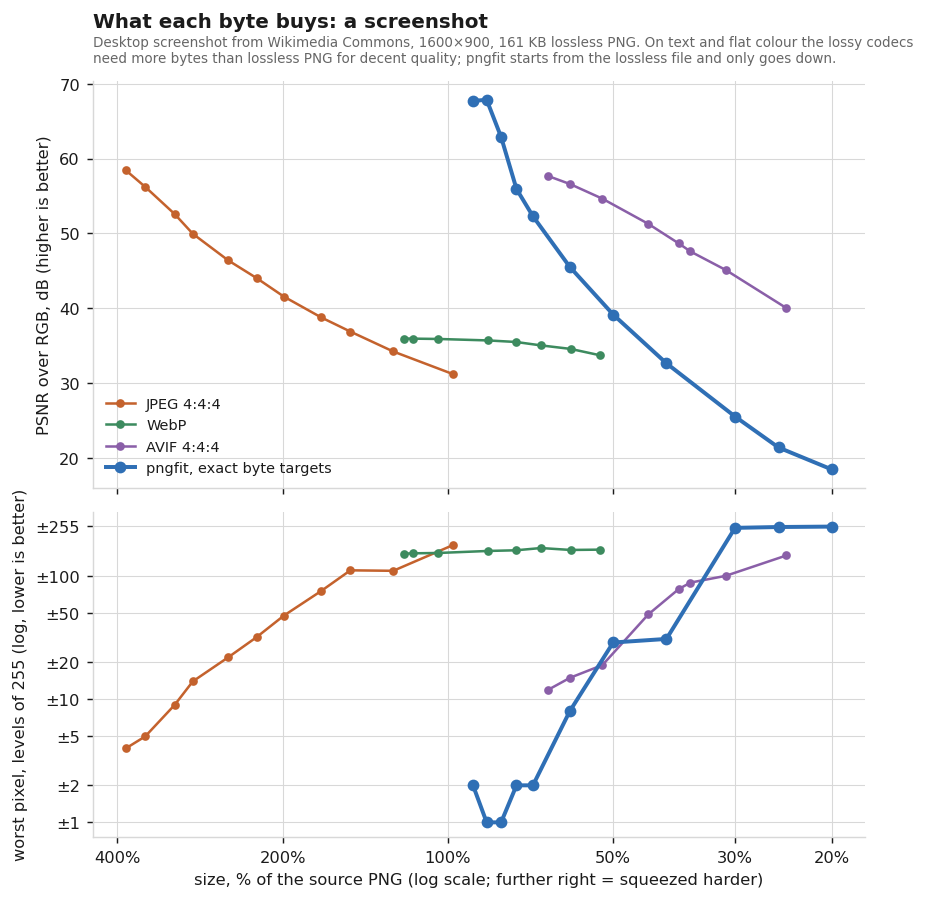
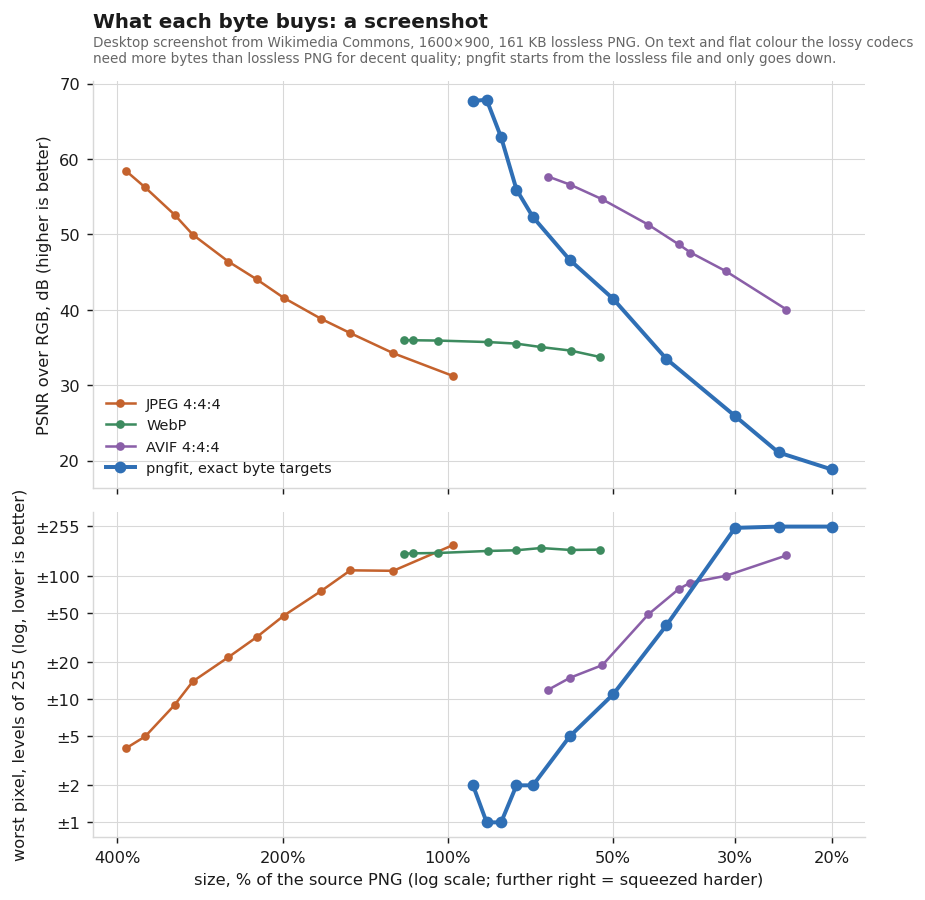
A dead zone on coarse steps; a re-aim that cannot stall
Steps of 9 and up now round a residual towards the prediction (offset 0.4 q,
then 0.35 q) instead of to the nearest multiple, as video encoders do. Measured
at equal size on six images (Kodak, USC-SIPI, AnitaDataset, a screenshot): about
+1 dB on average at 20-35 % of the lossless size, up to +3.9 dB on a smooth
photograph, nothing changed at 50 % and above. Steps under 9, everything under
--max-error, steps of the extended ladder and 16-bit images round as before;
--nearest restores 1.0's rounding.

When the final level priced an allocation over the target, the hybrid search
moved its budget by the size of the miss, too little to change a sparse
allocation; eight unchanged tries later it fell back to the most lossy point
and started over with thinner strips. The correction now doubles until the
allocation moves, and the fallback takes the best mix priced at the final
level. Kodak 23 at 90 %: 55 s -> 16 s, 56.21 -> 56.25 dB. On 51 other runs the
output is unchanged.

The README says what the dead zone does and shows the re-measured points; the
README opens with a few words on controlled loss.

diff --git a/pngfit.c b/pngfit.c
@@ -1120,6 +1120,7 @@ typedef struct {
     int free_alpha;  /* --alpha: colour under alpha 0 costs nothing and counts for nothing */
     double sw;
     uint8_t *qtab; /* L x bpp: step per rung per byte of a pixel */
+    uint8_t *otab; /* L x bpp: its rounding offset (see dead_zone), NEAREST for plain rounding */
     uint8_t *zeros;
     Entry *bk[NB];
     pthread_mutex_t mu;
@@ -1150,6 +1151,19 @@ static inline int predict(int f, int a, int b, int c)
     }
 }
 
+/* Rounding offset of step q: a residual r becomes floor((|r| + offset) / q) steps. Fine steps round
+ * to the nearest multiple (offset (q - 1) / 2, written NEAREST), which keeps the error within
+ * floor(q/2). Coarse steps lean towards the prediction, a dead zone like a video encoder's: at equal
+ * size, about +1 dB at 20-35 % of a photograph's size, nothing near lossless. Steps above 63 (the
+ * extended ladder) stay nearest, as does everything under --max-error or in 16-bit images. */
+#define NEAREST 0xFF
+static uint8_t dead_zone(int q)
+{
+    if (q < 9 || q > 63)
+        return NEAREST;
+    return q < 11 ? 3 : (uint8_t)(7 * q / 20); /* 0.4 q, then 0.35 q */
+}
+
 /* Quantize one row with filter f, predicting from `up` and the row's own
  * already-rounded bytes. Out-of-range rounding keeps the byte exact, so the error
  * bound floor(q/2) always holds. Returns the heuristic cost log2(1+|residual|). */
@@ -1159,7 +1173,7 @@ static double quant_row(const Fit *F, int W, const uint8_t *src, const uint8_t *
     const int bpp = F->bpp, ncol = (F->C - 1) * F->bps; /* with alpha, colour bytes come first */
     double cost = 0;
     for (int x = 0; x < W; x++) {
-        const uint8_t *qt = F->qtab + (lossless ? 0 : rung[x]) * bpp;
+        const uint8_t *qt = F->qtab + (lossless ? 0 : rung[x]) * bpp, *ot = F->otab + (lossless ? 0 : rung[x]) * bpp;
         int inv = 0; /* fully transparent, and allowed to forget its colour */
         if (F->free_alpha && !lossless) {
             const uint8_t *al = src + (size_t)x * bpp + ncol;
@@ -1173,7 +1187,13 @@ static double quant_row(const Fit *F, int W, const uint8_t *src, const uint8_t *
                 if (b < ncol)
                     val = p; /* colour nobody sees: the bare prediction, a zero residual */
             } else if (q > 1) {
-                int rq = q * floordiv(2 * (v - p) + q, 2 * q);
+                int rq;
+                if (ot[b] == NEAREST)
+                    rq = q * floordiv(2 * (v - p) + q, 2 * q);
+                else { /* a coarse step: rounded towards the prediction */
+                    int r = v - p, m = (abs(r) + ot[b]) / q;
+                    rq = r < 0 ? -m * q : m * q;
+                }
                 if (p + rq >= 0 && p + rq <= 255)
                     val = p + rq;
                 else if (F->clamp_above && q > F->clamp_above) {
@@ -1624,6 +1644,7 @@ typedef struct {
     int strip_set, explore_set; /* given on the command line: no automatic choice */
     int no_thin;                /* no thin landing strips (diagnostics) */
     double row_switch, mask;
+    int nearest; /* every step rounds to the nearest multiple, as in 1.0 (diagnostics) */
     int ladder_kind; /* 0 odd, 1 all, 2 custom */
     int ladder[256], nladder;
 } Opts;
@@ -1683,6 +1704,11 @@ static void build_ladder(const Opts *o, const Png *g, Fit *F, int extended)
                 F->qtab[r * g->bpp + 2 * c + 1] = lossy ? ql : 1;
             }
         }
+    /* the dead zone needs no error cap to keep, and 8-bit samples */
+    int dz = o->max_error < 0 && !o->nearest && g->bps == 1;
+    F->otab = amalloc((size_t)F->L * g->bpp);
+    for (int i = 0; i < F->L * g->bpp; i++)
+        F->otab[i] = dz ? dead_zone(F->qtab[i]) : NEAREST;
 }
 
 static void describe_rung(const Fit *F, int r, char *s, size_t n)
@@ -1698,7 +1724,8 @@ static int rung_err(const Fit *F, int r)
 {
     int m = 0;
     for (int c = 0; c < F->C; c++) {
-        int e = F->bps == 1 ? F->qtab[r * F->bpp + c] / 2
+        int q = F->qtab[r * F->bpp + c], o = F->otab[r * F->bpp + c];
+        int e = F->bps == 1 ? (o == NEAREST ? q / 2 : (o > q - 1 - o ? o : q - 1 - o))
                             : F->qtab[r * F->bpp + 2 * c] / 2 * 256 + F->qtab[r * F->bpp + 2 * c + 1] / 2;
         if (e > m)
             m = e;
@@ -2393,7 +2420,7 @@ static int fit_once(const Opts *o, const Png *g, const uint8_t *head, size_t hea
             /* price the chosen allocation at the final level; the levels differ by a few
              * per cent and not evenly across strips, so re-aim the exploration budget by
              * what was measured until the final total sits just under the target */
-            int64_t best_ok = -1, *Pbest = amalloc(K * sizeof(int64_t));
+            int64_t best_ok = -1, *Pbest = amalloc(K * sizeof(int64_t)), *Plast = amalloc(K * sizeof(int64_t));
             for (int it = 0; it < 8; it++) {
                 F->cur = 1;
                 n = 0;
@@ -2413,17 +2440,31 @@ static int fit_once(const Opts *o, const Png *g, const uint8_t *head, size_t hea
                 }
                 if (t1 <= T && T - t1 <= (T / 500 > 4096 ? T / 500 : 4096))
                     break;
-                Tx += (int64_t)((double)(T - t1) * tx / t1);
+                /* the strips' curves are sparse, so a correction as small as the miss can leave the
+                 * allocation as it was: double it until the allocation moves (no compression here,
+                 * only a choice among points already priced) */
+                memcpy(Plast, Pc, K * sizeof(int64_t));
+                int64_t step = (int64_t)((double)(T - t1) * tx / t1);
+                if (step == 0)
+                    step = T > t1 ? 1 : -1;
                 F->cur = 0;
-                best_under(F, Tx, Pc);
+                for (int grow = 0; grow < 24; grow++, step *= 2) {
+                    Tx += step;
+                    best_under(F, Tx, Pc);
+                    if (memcmp(Pc, Plast, K * sizeof(int64_t)))
+                        break;
+                }
             }
             F->cur = 1;
-            if (best_ok < 0) { /* never under: fall back to the most lossy point every strip has priced */
-                for (int k = 0; k < K; k++)
-                    Pbest[k] = F->maxP[k];
-                best_ok = 0;
-                for (int k = 0; k < K; k++)
-                    best_ok += cached(F, k, F->maxP[k], 0).R;
+            if (best_ok < 0) { /* never under: the best mix of the points priced at the final level */
+                best_ok = best_under(F, T, Pbest);
+                if (best_ok > T) { /* or, failing that, the most lossy point of every strip */
+                    for (int k = 0; k < K; k++)
+                        Pbest[k] = F->maxP[k];
+                    best_ok = 0;
+                    for (int k = 0; k < K; k++)
+                        best_ok += cached(F, k, F->maxP[k], 0).R;
+                }
             }
             memcpy(Pc, Pbest, K * sizeof(int64_t));
             tot = best_ok;
@@ -3041,6 +3082,8 @@ static void usage(FILE *f)
           "      --strip-rows N    rows per independent strip (default: 128 for photographs,\n"
           "                        64 for screenshots and other flat, synthetic images)\n"
           "      --no-thin-strips  no thin landing strips at the bottom (slower exact landing)\n"
+          "      --nearest         round every step to the nearest multiple, as pngfit 1.0 did:\n"
+          "                        no dead zone on the coarse steps\n"
           "      --rounds N        rate-distortion refinement rounds (default 4)\n"
           "  -j, --jobs N          worker threads in total (default: all cores)\n"
           "  -P, --parallel N      batch mode: files encoded at once (default: as many as\n"
@@ -3260,7 +3303,7 @@ static int cli_main(int argc, char **argv)
     o.jobs = ncpu();
     const char *outdir = NULL, *suffix = "";
     enum { O_SUFFIX = 256, O_LALPHA, O_FILTER, O_RSW, O_LADDER, O_MASK, O_LEVEL, O_STRIP, O_ROUNDS, O_JSON,
-           O_NOREDUCE, O_ALPHA, O_FAST, O_EXPLORE, O_NOTHIN, O_PLINES };
+           O_NOREDUCE, O_ALPHA, O_FAST, O_EXPLORE, O_NOTHIN, O_PLINES, O_NEAREST };
     o.max_error = -1;
     o.explore_level = 10;
     static const struct option lo[] = {{"size", 1, 0, 's'},          {"outdir", 1, 0, 'o'},
@@ -3275,7 +3318,7 @@ static int cli_main(int argc, char **argv)
                                        {"no-reduce", 0, 0, O_NOREDUCE}, {"alpha", 0, 0, O_ALPHA},
                                        {"max-error", 1, 0, 'e'},        {"fast", 0, 0, O_FAST},
                                        {"explore-level", 1, 0, O_EXPLORE},
-                                       {"no-thin-strips", 0, 0, O_NOTHIN},
+                                       {"no-thin-strips", 0, 0, O_NOTHIN}, {"nearest", 0, 0, O_NEAREST},
                                        {"progress-lines", 0, 0, O_PLINES},
                                        {"version", 0, 0, 'V'},       {"help", 0, 0, 'h'},
                                        {0, 0, 0, 0}};
@@ -3336,6 +3379,7 @@ static int cli_main(int argc, char **argv)
             }
             break;
         case O_MASK: o.mask = atof(optarg); break;
+        case O_NEAREST: o.nearest = 1; break;
         case O_LEVEL: o.level = atoi(optarg); break;
         case O_STRIP: o.strip = atoi(optarg); o.strip_set = 1; break;
         case O_ROUNDS: o.rounds = atoi(optarg); break;

diff --git a/README.md b/README.md
@@ -4,14 +4,19 @@
 
 **Make a truecolor PNG, or an animated one, exactly N bytes, with the least visible loss.**
 
+*Once our limits were floppy disks and modems; now they are upload forms. A picture over the limit
+still gets published, squeezed into a JPEG: blocks on an 8×8 grid, colour bleeding around every
+letter. pngfit is for the age of controlled loss: every byte the limit allows, and not one bit of
+loss beyond what it demands.*
+
 Try it in the browser at **[pngfit.redmoth.moe](https://pngfit.redmoth.moe/)**: it runs on your own
 machine and the image is never uploaded.
 
-Upload forms have hard limits: Bandcamp takes a cover up to 10 MiB (10 485 760 bytes), and it
-serves that file to listeners as uploaded. When a lossless PNG is 12 MB, the usual choices are a
-palette (pngquant), a downscale, or JPEG. pngfit takes another route: it keeps the full resolution and
-full truecolor, gives up the smallest possible amount of precision where the eye cannot see it,
-and writes a valid PNG of **exactly** the size you ask for: not "about", not "under", the very byte.
+Bandcamp, for one, takes a cover of up to 10 MiB (10 485 760 bytes) and serves that very file to
+listeners. When a lossless PNG is 12 MB, the usual choices are a palette (pngquant), a downscale,
+or JPEG. pngfit takes another route: it keeps the full resolution and full truecolor, gives up the
+smallest possible amount of precision where the eye cannot see it, and writes a valid PNG of
+**exactly** the size you ask for: not "about", not "under", the very byte.
 
 ```
 $ pngfit cover.png cover_bandcamp.png -s 10MiB -e 1
@@ -43,7 +48,7 @@ Near lossless, pngfit is the better tool. At Bandcamp's 10 MiB (86.5 % of the so
 no pixel by more than ±1 at 54.9 dB; JPEG cannot even get there (quality 100 is 69 % of the size
 and still moves a pixel by 5 levels), and WebP and AVIF never get below ±27 and ±9. Below about
 65 % the picture flips for the average error: transform codecs suit photographs better than
-prediction does, and at 20 % of the size JPEG and AVIF are 5–8 dB ahead. pngfit's worst pixel stays the
+prediction does, and at 20 % of the size JPEG and AVIF are 4–7 dB ahead. pngfit's worst pixel stays the
 smallest at every size, though: ±7 at 20 %, where JPEG and AVIF are at ±26 and ±28.
 
 ## How it works
@@ -56,6 +61,11 @@ prediction residuals. pngfit rounds those residuals to multiples of a step *q*:
   error never drifts: it stays at most ⌊q/2⌋ per sample;
 * steps climb an odd ladder (1, 3, 5, …): q = 3 still means "±1 at most" but saves far more
   than q = 2;
+* the coarse steps, 9 and up, lean towards the prediction instead of rounding to the nearest
+  multiple: a dead zone, as video encoders use. Fewer, smaller residuals cost fewer bytes than the
+  extra error is worth: at the same size this gains about 1 dB at 20–35 % of a photograph's
+  lossless size (up to 4 dB on smooth ones) and changes nothing near lossless. Under `-e`, and in
+  16-bit images, every step stays nearest and the ⌊q/2⌋ bound holds (`--nearest` turns it off);
 * textured pixels (wood grain, noise, edges) are coarsened first, flat areas last
   (ranked by local 5×5 luma deviation);
 * each row may switch PNG filter when another one is clearly cheaper after rounding;
@@ -186,6 +196,7 @@ own lossless size. `0` means "as small as you can".
 | `--fast` | level 10: on photographs the same quality (−0.02 dB) about 3× faster; on screenshots it costs about 2 dB |
 | `--strip-rows N` | rows per independent strip (default: 128 for photographs, 64 for flat synthetic images) |
 | `--rounds N` | rate–distortion refinement rounds (default 4) |
+| `--nearest` | round every step to the nearest multiple, as 1.0 did (no dead zone on coarse steps) |
 | `-j, --jobs N` | worker threads in total (default: all cores) |
 | `-P, --parallel N` | batch mode: files encoded at once (default: as many as threads allow) |
 | `-q, --quiet` | no log, no progress bar |
